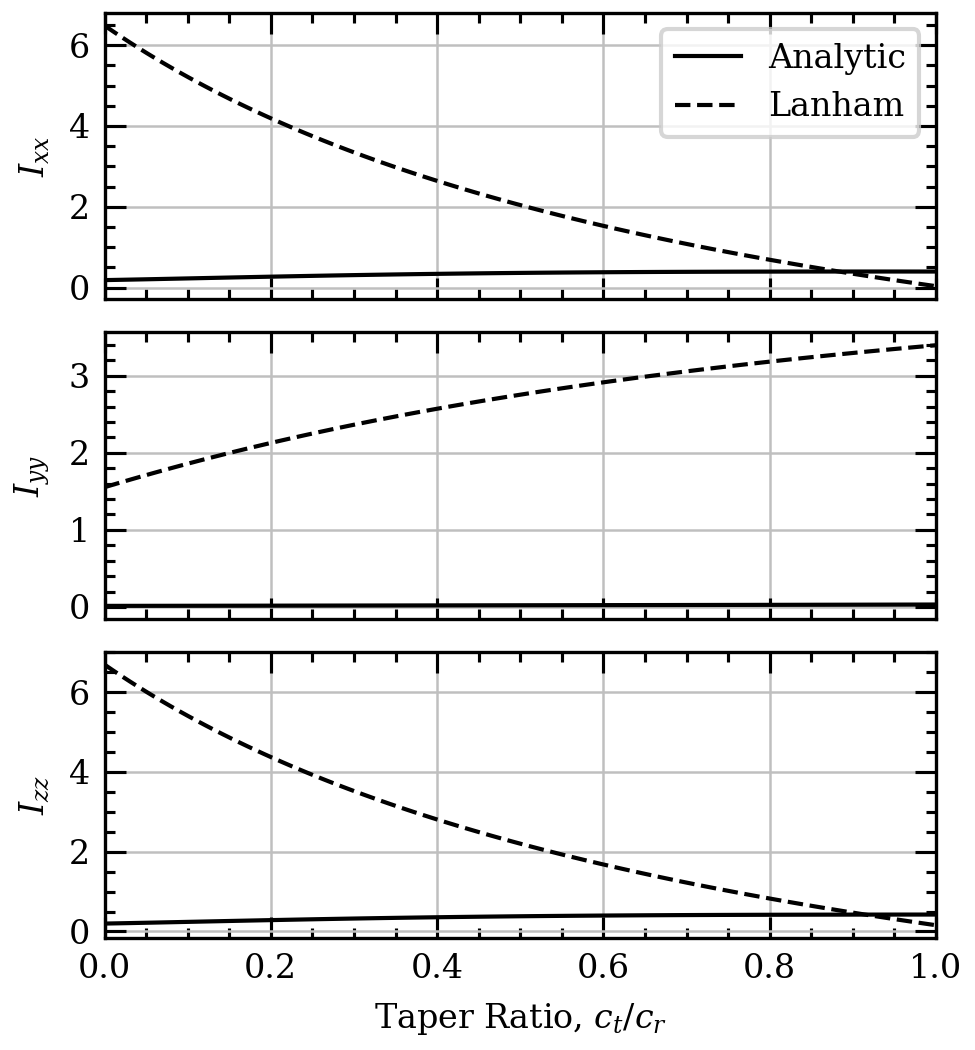
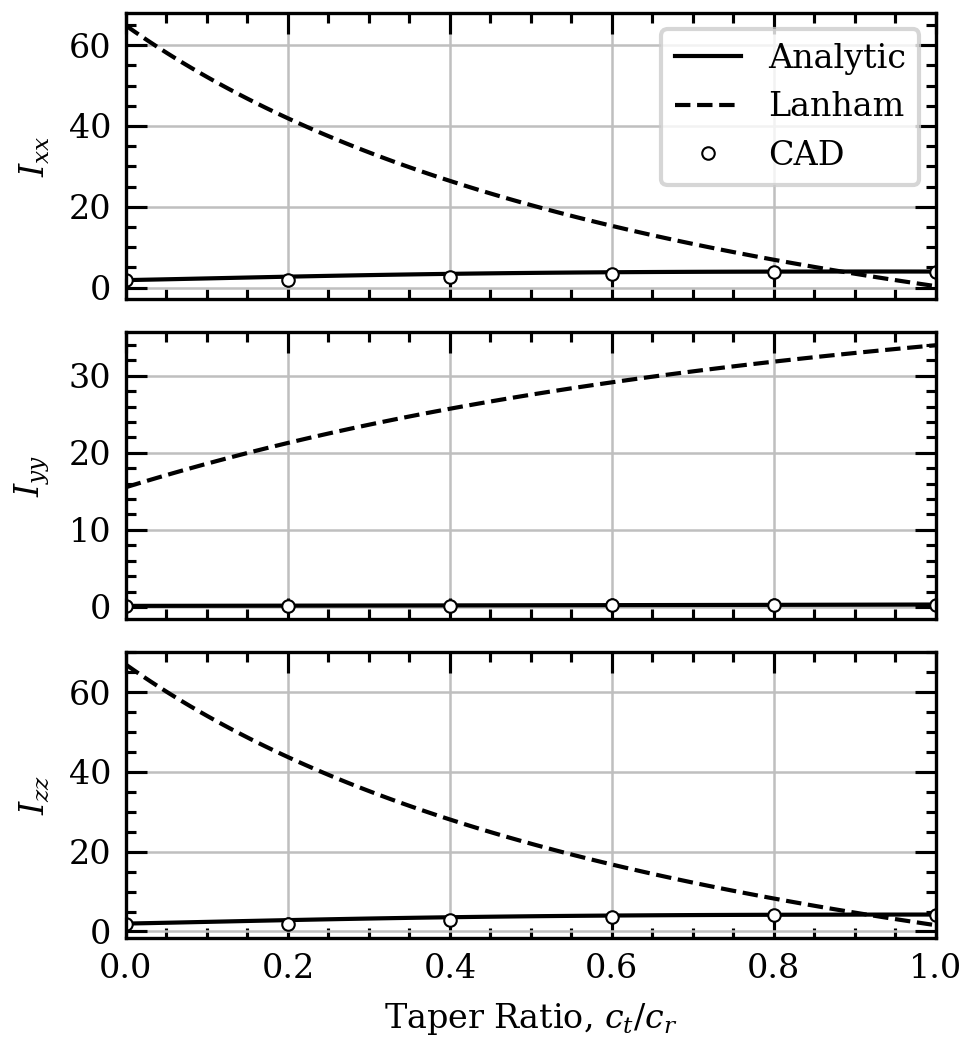
working on adding SW

diff --git a/eval/compare_lanham.py b/eval/compare_lanham.py
@@ -14,7 +14,7 @@ if __name__ == "__main__":
     # symmetric wing
     sym_wing = {
         "ID" : 1,
-        "mass": 0.3,
+        "mass": 3.0,
         "type" : "symmetric_airfoil",
         "side" : "right",
         "connect_to" : {
@@ -61,7 +61,7 @@ if __name__ == "__main__":
 
     # run for various geometries
     num = 100
-    ms  = np.zeros((2,num,))
+    ms  = np.zeros((2,num,)) # first index, 0 == us, 1 == Lanham
     Vs  = np.zeros((2,num,))
     cgs = np.zeros((2,3,num))
     Is  = np.zeros((2,3,3,num))
@@ -88,6 +88,78 @@ if __name__ == "__main__":
         Ios[0,:,:,i] = sym_props["origin_inertia_tensor"]
         Ios[1,:,:,i] = lan_props["origin_inertia_tensor"]
     
+    # read in SW data
+    RTSW = np.array([0.0,0.2,0.4,0.6,0.8,1.0])
+    SWfn = ["RT"+"{:>02d}".format(int(RT*10))+".txt" for RT in RTSW]
+    #
+    SWnum = len(RTSW)
+    mW  = np.zeros((SWnum,))
+    VW  = np.zeros((SWnum,))
+    cgW = np.zeros((3,SWnum))
+    IW  = np.zeros((3,3,SWnum))
+    IoW = np.zeros((3,3,SWnum))
+    #
+    for j,fn in enumerate(SWfn):
+        with open(fn,"r") as file:
+            # info = []
+            # for line in file:
+            #     info.append([value for value in line.split()])
+            
+            # info = np.array(info)
+
+            # file.close()
+            # print(info)
+
+            # intro
+            for i in range(4): file.readline()
+            # mass
+            mW[j] = float(file.readline().split("=")[1].split()[0]) # 
+            # readline
+            for i in range(1): file.readline()
+            # volume
+            VW[j] = float(file.readline().split("=")[1].split()[0]) # 
+            # readline
+            for i in range(4): file.readline()
+            # cg
+            cgW[:,j] = [
+                float(file.readline().split("=")[1]), # 
+                float(file.readline().split("=")[1]), # 
+                float(file.readline().split("=")[1]), # 
+            ]
+            # readline
+            for i in range(9): file.readline()
+            # Inertia
+            line = file.readline().split("=")
+            Lxx = float(line[1].split("\t")[0])
+            Lxy = float(line[2].split("\t")[0])
+            Lxz = float(line[3].split("\n")[0])
+            line = file.readline().split("=")
+            Lyy = float(line[2].split("\t")[0])
+            Lyz = float(line[3].split("\n")[0])
+            line = file.readline().split("=")
+            Lzz = float(line[3].split("\n")[0])
+            IW [:,:,j] = [
+                [ Lxx,-Lxy,-Lxz],
+                [-Lxy, Lyy,-Lyz],
+                [-Lxz,-Lyz, Lzz]
+            ]
+            # readline
+            for i in range(3): file.readline()
+            # Inertia
+            line = file.readline().split("=")
+            Ixx = float(line[1].split("\t")[0])
+            Ixy = float(line[2].split("\t")[0])
+            Ixz = float(line[3].split("\n")[0])
+            line = file.readline().split("=")
+            Iyy = float(line[2].split("\t")[0])
+            Iyz = float(line[3].split("\n")[0])
+            line = file.readline().split("=")
+            Izz = float(line[3].split("\n")[0])
+            IoW[:,:,j] = [
+                [ Ixx,-Ixy,-Ixz],
+                [-Ixy, Iyy,-Iyz],
+                [-Ixz,-Iyz, Izz]
+            ]    
     
     # plot
     # change plot text parameters
@@ -116,14 +188,21 @@ if __name__ == "__main__":
     fig_cgs,axs_cgs = plt.subplots(3,1,**plot_dict)
     fig_Ims,axs_Ims = plt.subplots(3,1,**plot_dict)
     fig_Ips,axs_Ips = plt.subplots(3,1,**plot_dict)
+    # labels
+    uslbl = "Analytic"
+    lnlbl = "Lanham"
+    SWlbl = "CAD"
+
 
     #   mass & volume
     axs_mV [0].grid(which="major",lw=0.6,ls="-",c="0.75")
     axs_mV [1].grid(which="major",lw=0.6,ls="-",c="0.75")
-    axs_mV [0].plot(RT,ms[0],"k-",label="Analytic")
-    axs_mV [0].plot(RT,ms[1],"k--",label="Lanham")
-    axs_mV [1].plot(RT,Vs[0],"k-")
-    axs_mV [1].plot(RT,Vs[1],"k--")
+    axs_mV [0].plot(RT  ,ms[0],"k-",label=uslbl)
+    axs_mV [0].plot(RT  ,ms[1],"k--",label=lnlbl)
+    axs_mV [0].plot(RTSW,mW   ,"w.",mec="k",mew=0.5,label=SWlbl)
+    axs_mV [1].plot(RT  ,Vs[0],"k-")
+    axs_mV [1].plot(RT  ,Vs[1],"k--")
+    axs_mV [1].plot(RTSW,VW   ,"w.",mec="k",mew=0.5)
     axs_mV [0].set_ylabel(r"mass, $m$")
     axs_mV [1].set_ylabel(r"volume, $V$")
     axs_mV [1].set_xlabel("Taper Ratio, $c_t/c_r$")
@@ -133,12 +212,15 @@ if __name__ == "__main__":
     axs_cgs[0].grid(which="major",lw=0.6,ls="-",c="0.75")
     axs_cgs[1].grid(which="major",lw=0.6,ls="-",c="0.75")
     axs_cgs[2].grid(which="major",lw=0.6,ls="-",c="0.75")
-    axs_cgs[0].plot(RT,cgs[0,0],"k-",label="Analytic")
-    axs_cgs[0].plot(RT,cgs[1,0],"k--",label="Lanham")
-    axs_cgs[1].plot(RT,cgs[0,1],"k-")
-    axs_cgs[1].plot(RT,cgs[1,1],"k--")
-    axs_cgs[2].plot(RT,cgs[0,2],"k-")
-    axs_cgs[2].plot(RT,cgs[1,2],"k--")
+    axs_cgs[0].plot(RT  ,cgs[0,0],"k-",label=uslbl)
+    axs_cgs[0].plot(RT  ,cgs[1,0],"k--",label=lnlbl)
+    axs_cgs[0].plot(RTSW,cgW  [0],"w.",mec="k",mew=0.5,label=SWlbl)
+    axs_cgs[1].plot(RT  ,cgs[0,1],"k-")
+    axs_cgs[1].plot(RT  ,cgs[1,1],"k--")
+    axs_cgs[1].plot(RTSW,cgW  [1],"w.",mec="k",mew=0.5)
+    axs_cgs[2].plot(RT  ,cgs[0,2],"k-")
+    axs_cgs[2].plot(RT  ,cgs[1,2],"k--")
+    axs_cgs[2].plot(RTSW,cgW  [2],"w.",mec="k",mew=0.5)
     axs_cgs[0].set_ylabel(r"$\bar{x}$")
     axs_cgs[1].set_ylabel(r"$\bar{y}$")
     axs_cgs[2].set_ylabel(r"$\bar{z}$")
@@ -149,18 +231,24 @@ if __name__ == "__main__":
     axs_Ims[0].grid(which="major",lw=0.6,ls="-",c="0.75")
     axs_Ims[1].grid(which="major",lw=0.6,ls="-",c="0.75")
     axs_Ims[2].grid(which="major",lw=0.6,ls="-",c="0.75")
-    axs_Ims[0].plot(RT,Is [0,0,0],"k-",label="Analytic")
-    axs_Ims[0].plot(RT,Is [1,0,0],"k--",label="Lanham")
-    axs_Ims[1].plot(RT,Is [0,1,1],"k-")
-    axs_Ims[1].plot(RT,Is [1,1,1],"k--")
-    axs_Ims[2].plot(RT,Is [0,2,2],"k-")
-    axs_Ims[2].plot(RT,Is [1,2,2],"k--")
-    # axs_Ims[0].plot(RT,Ios[0,0,0],"0.4",ls="-",label="origin")
-    # axs_Ims[0].plot(RT,Ios[1,0,0],"0.4",ls="--")
-    # axs_Ims[1].plot(RT,Ios[0,1,1],"0.4",ls="-")
-    # axs_Ims[1].plot(RT,Ios[1,1,1],"0.4",ls="--")
-    # axs_Ims[2].plot(RT,Ios[0,2,2],"0.4",ls="-")
-    # axs_Ims[2].plot(RT,Ios[1,2,2],"0.4",ls="--")
+    axs_Ims[0].plot(RT  ,Is [0,0,0],"k-",label=uslbl)
+    axs_Ims[0].plot(RT  ,Is [1,0,0],"k--",label=lnlbl)
+    axs_Ims[0].plot(RTSW,IW   [0,0],"w.",mec="k",mew=0.5,label=SWlbl)
+    axs_Ims[1].plot(RT  ,Is [0,1,1],"k-")
+    axs_Ims[1].plot(RT  ,Is [1,1,1],"k--")
+    axs_Ims[1].plot(RTSW,IW   [1,1],"w.",mec="k",mew=0.5)
+    axs_Ims[2].plot(RT  ,Is [0,2,2],"k-")
+    axs_Ims[2].plot(RT  ,Is [1,2,2],"k--")
+    axs_Ims[2].plot(RTSW,IW   [2,2],"w.",mec="k",mew=0.5)
+    # axs_Ims[0].plot(RT  ,Ios[0,0,0],"0.4",ls="-",label="origin")
+    # axs_Ims[0].plot(RT  ,Ios[1,0,0],"0.4",ls="--")
+    # axs_Ims[0].plot(RTSW,IoW  [0,0],"w.",mec="0.4",mew=0.5)
+    # axs_Ims[1].plot(RT  ,Ios[0,1,1],"0.4",ls="-")
+    # axs_Ims[1].plot(RT  ,Ios[1,1,1],"0.4",ls="--")
+    # axs_Ims[1].plot(RTSW,IoW  [1,1],"w.",mec="0.4",mew=0.5)
+    # axs_Ims[2].plot(RT  ,Ios[0,2,2],"0.4",ls="-")
+    # axs_Ims[2].plot(RT  ,Ios[1,2,2],"0.4",ls="--")
+    # axs_Ims[2].plot(RTSW,IoW  [2,2],"w.",mec="0.4",mew=0.5)
     axs_Ims[0].set_ylabel(r"$I_{xx}$")
     axs_Ims[1].set_ylabel(r"$I_{yy}$")
     axs_Ims[2].set_ylabel(r"$I_{zz}$")
@@ -171,18 +259,24 @@ if __name__ == "__main__":
     axs_Ips[0].grid(which="major",lw=0.6,ls="-",c="0.75")
     axs_Ips[1].grid(which="major",lw=0.6,ls="-",c="0.75")
     axs_Ips[2].grid(which="major",lw=0.6,ls="-",c="0.75")
-    axs_Ips[0].plot(RT,-Is [0,0,1],"k-",label="Analytic")
-    axs_Ips[0].plot(RT,-Is [1,0,1],"k--",label="Lanham")
-    axs_Ips[1].plot(RT,-Is [0,0,2],"k-")
-    axs_Ips[1].plot(RT,-Is [1,0,2],"k--")
-    axs_Ips[2].plot(RT,-Is [0,1,2],"k-")
-    axs_Ips[2].plot(RT,-Is [1,1,2],"k--")
-    # axs_Ips[0].plot(RT,-Ios[0,0,1],"0.4",ls="-",label="origin")
-    # axs_Ips[0].plot(RT,-Ios[1,0,1],"0.4",ls="--")
-    # axs_Ips[1].plot(RT,-Ios[0,0,2],"0.4",ls="-")
-    # axs_Ips[1].plot(RT,-Ios[1,0,2],"0.4",ls="--")
-    # axs_Ips[2].plot(RT,-Ios[0,1,2],"0.4",ls="-")
-    # axs_Ips[2].plot(RT,-Ios[1,1,2],"0.4",ls="--")
+    axs_Ips[0].plot(RT  ,-Is [0,0,1],"k-",label=uslbl)
+    axs_Ips[0].plot(RT  ,-Is [1,0,1],"k--",label=lnlbl)
+    axs_Ips[0].plot(RTSW,-IW   [0,1],"w.",mec="k",mew=0.5,label=SWlbl)
+    axs_Ips[1].plot(RT  ,-Is [0,0,2],"k-")
+    axs_Ips[1].plot(RT  ,-Is [1,0,2],"k--")
+    axs_Ips[1].plot(RTSW,-IW   [0,2],"w.",mec="k",mew=0.5)
+    axs_Ips[2].plot(RT  ,-Is [0,1,2],"k-")
+    axs_Ips[2].plot(RT  ,-Is [1,1,2],"k--")
+    axs_Ips[2].plot(RTSW,-IW   [1,2],"w.",mec="k",mew=0.5)
+    # axs_Ips[0].plot(RT  ,-Ios[0,0,1],"0.4",ls="-",label="origin")
+    # axs_Ips[0].plot(RT  ,-Ios[1,0,1],"0.4",ls="--")
+    # axs_Ips[0].plot(RTSW,-IoW  [0,1],"w.",mec="0.4",mew=0.5)
+    # axs_Ips[1].plot(RT  ,-Ios[0,0,2],"0.4",ls="-")
+    # axs_Ips[1].plot(RT  ,-Ios[1,0,2],"0.4",ls="--")
+    # axs_Ips[1].plot(RTSW,-IoW  [0,2],"w.",mec="0.4",mew=0.5)
+    # axs_Ips[2].plot(RT  ,-Ios[0,1,2],"0.4",ls="-")
+    # axs_Ips[2].plot(RT  ,-Ios[1,1,2],"0.4",ls="--")
+    # axs_Ips[2].plot(RTSW,-IoW  [1,2],"w.",mec="0.4",mew=0.5)
     axs_Ips[0].set_ylabel(r"$I_{xy}$")
     axs_Ips[1].set_ylabel(r"$I_{xz}$")
     axs_Ips[2].set_ylabel(r"$I_{yz}$")
@@ -192,12 +286,13 @@ if __name__ == "__main__":
 
     # set name
     save_figs = True
+    transp = False # True # 
     if save_figs:
         file_end = "png" # "pdf" # 
-        fig_mV .savefig("comp_mVs."+file_end,dpi=300.,transparent=True)
-        fig_cgs.savefig("comp_cgs."+file_end,dpi=300.,transparent=True)
-        fig_Ims.savefig("comp_Ims."+file_end,dpi=300.,transparent=True)
-        fig_Ips.savefig("comp_Ips."+file_end,dpi=300.,transparent=True)
+        fig_mV .savefig("comp_mVs."+file_end,dpi=300.,transparent=transp)
+        fig_cgs.savefig("comp_cgs."+file_end,dpi=300.,transparent=transp)
+        fig_Ims.savefig("comp_Ims."+file_end,dpi=300.,transparent=transp)
+        fig_Ips.savefig("comp_Ips."+file_end,dpi=300.,transparent=transp)
     show_plots = False
     if show_plots:
         plt.show()
